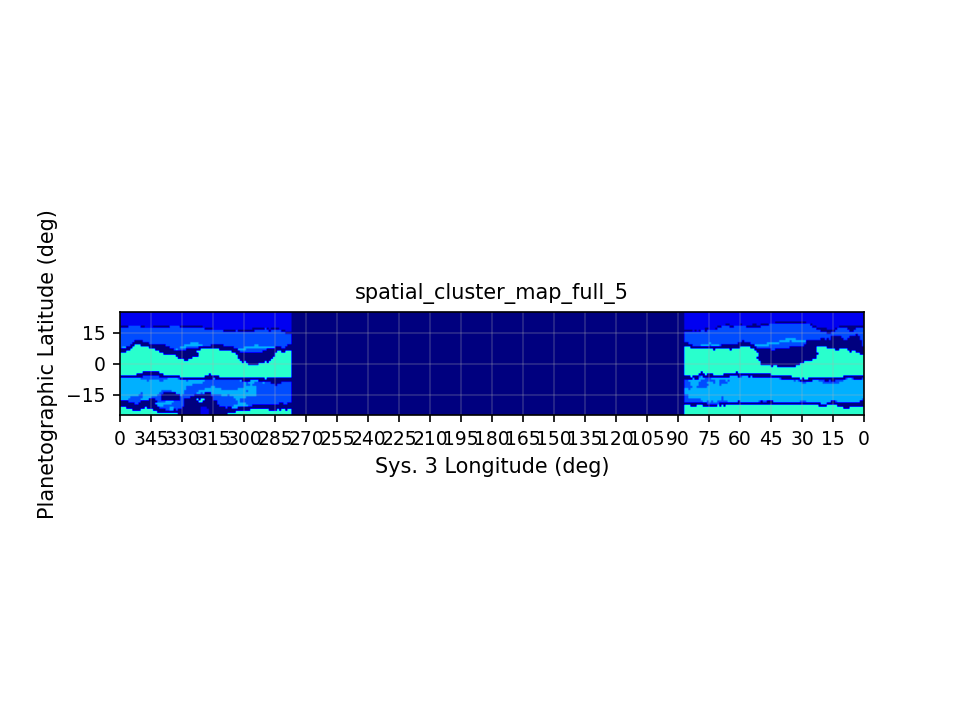
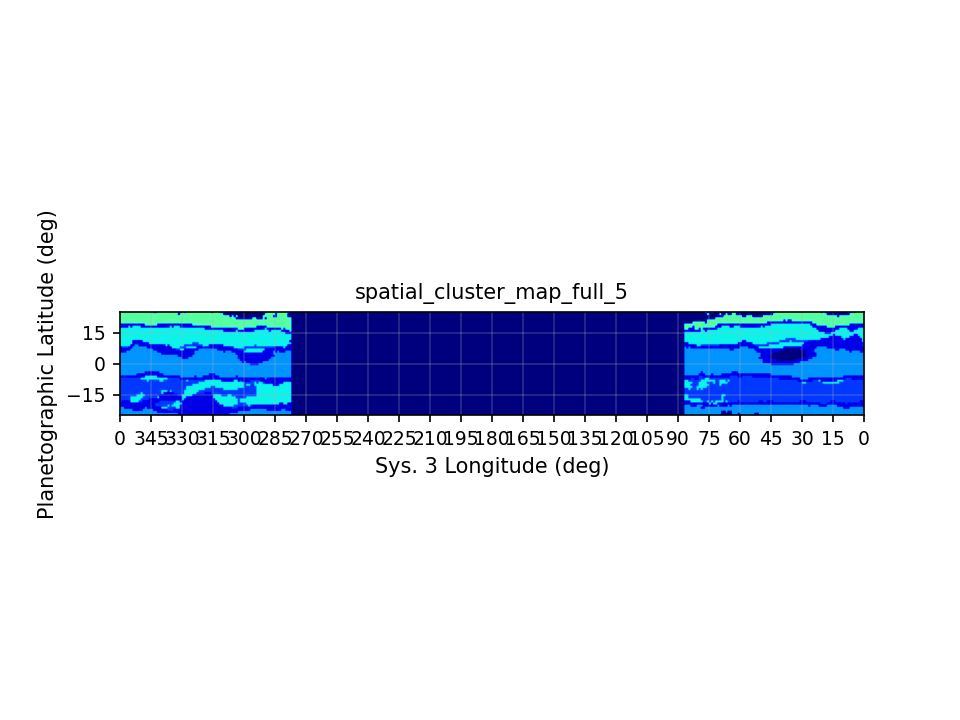
fix: change nan to -1 to avoid overlap with cluster number zero

Changed region(s): [[0.6875, 0.4278, 0.9062, 0.5806], [0.125, 0.4278, 0.3125, 0.5806]]

diff --git a/scripts/plots/mapping.py b/scripts/plots/mapping.py
@@ -22,12 +22,12 @@ def create_axis(LatLims, LonLims, Ltitle, LonSys):
     axs3.set_adjustable('box') 
     return axs3
 
-def plot_patch(patch, LatLims, LonLims, axis, colorscale, vn = 0, vx = 10, n = 10):
+def plot_patch(patch, LatLims, LonLims, axis, colorscale, vn = -1, vx = 10, n = 11):
     '''
     Purpose:
         to plot a patch with appropriate longitude/latitude scales
     '''
-    np.nan_to_num(patch, copy=False, nan=0.0, posinf=0.0, neginf=0.0)
+    np.nan_to_num(patch, copy=False, nan=-1.0, posinf=0.0, neginf=0.0)
     tx=np.linspace(vn,vx,n,endpoint=True)
     print(patch)
     show=axis.imshow(patch, colorscale, origin='upper',vmin=vn,vmax=vx,  
@@ -64,6 +64,7 @@ def create_cluster_arr(input_arr, subset_shape, pred):
     mapped_clusters = oned_mapped_clusters.reshape(subset_shape)
     return mapped_clusters
 
-create_cluster_map(["NH3", "PCld"], [[30, 250], [1000, 2500]])
+#create_cluster_map(["NH3", "PCld"], [[30, 250], [1000, 2500]])
+create_cluster_map(["NH3", "PCld"], [[60, 160], [1600, 2200]])
 
 #create_cluster_map_arr( ["NH3", "PCld", "AOI", "CI"], [[60, 250], [1400, 2500], [0.1, 0.4], [0.35, 0.75]])
